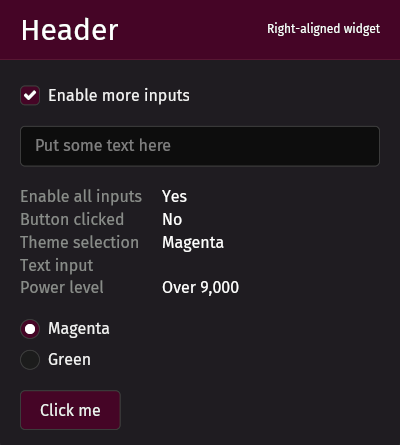
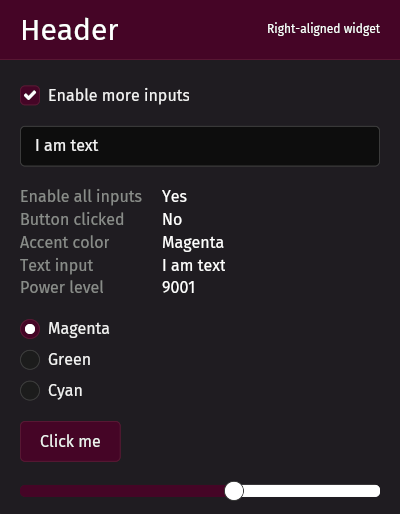
Update showcase screenshot

diff --git a/examples/showcase/src/main.rs b/examples/showcase/src/main.rs
@@ -76,9 +76,7 @@ impl Sandbox for ShowcaseSandbox {
             self.theme
                 .text("Button clicked")
                 .variant(TextVariant::Dimmed),
-            self.theme
-                .text("Theme selection")
-                .variant(TextVariant::Dimmed),
+            self.theme.text("Accent color").variant(TextVariant::Dimmed),
             self.theme.text("Text input").variant(TextVariant::Dimmed),
             self.theme.text("Power level").variant(TextVariant::Dimmed),
         ]
